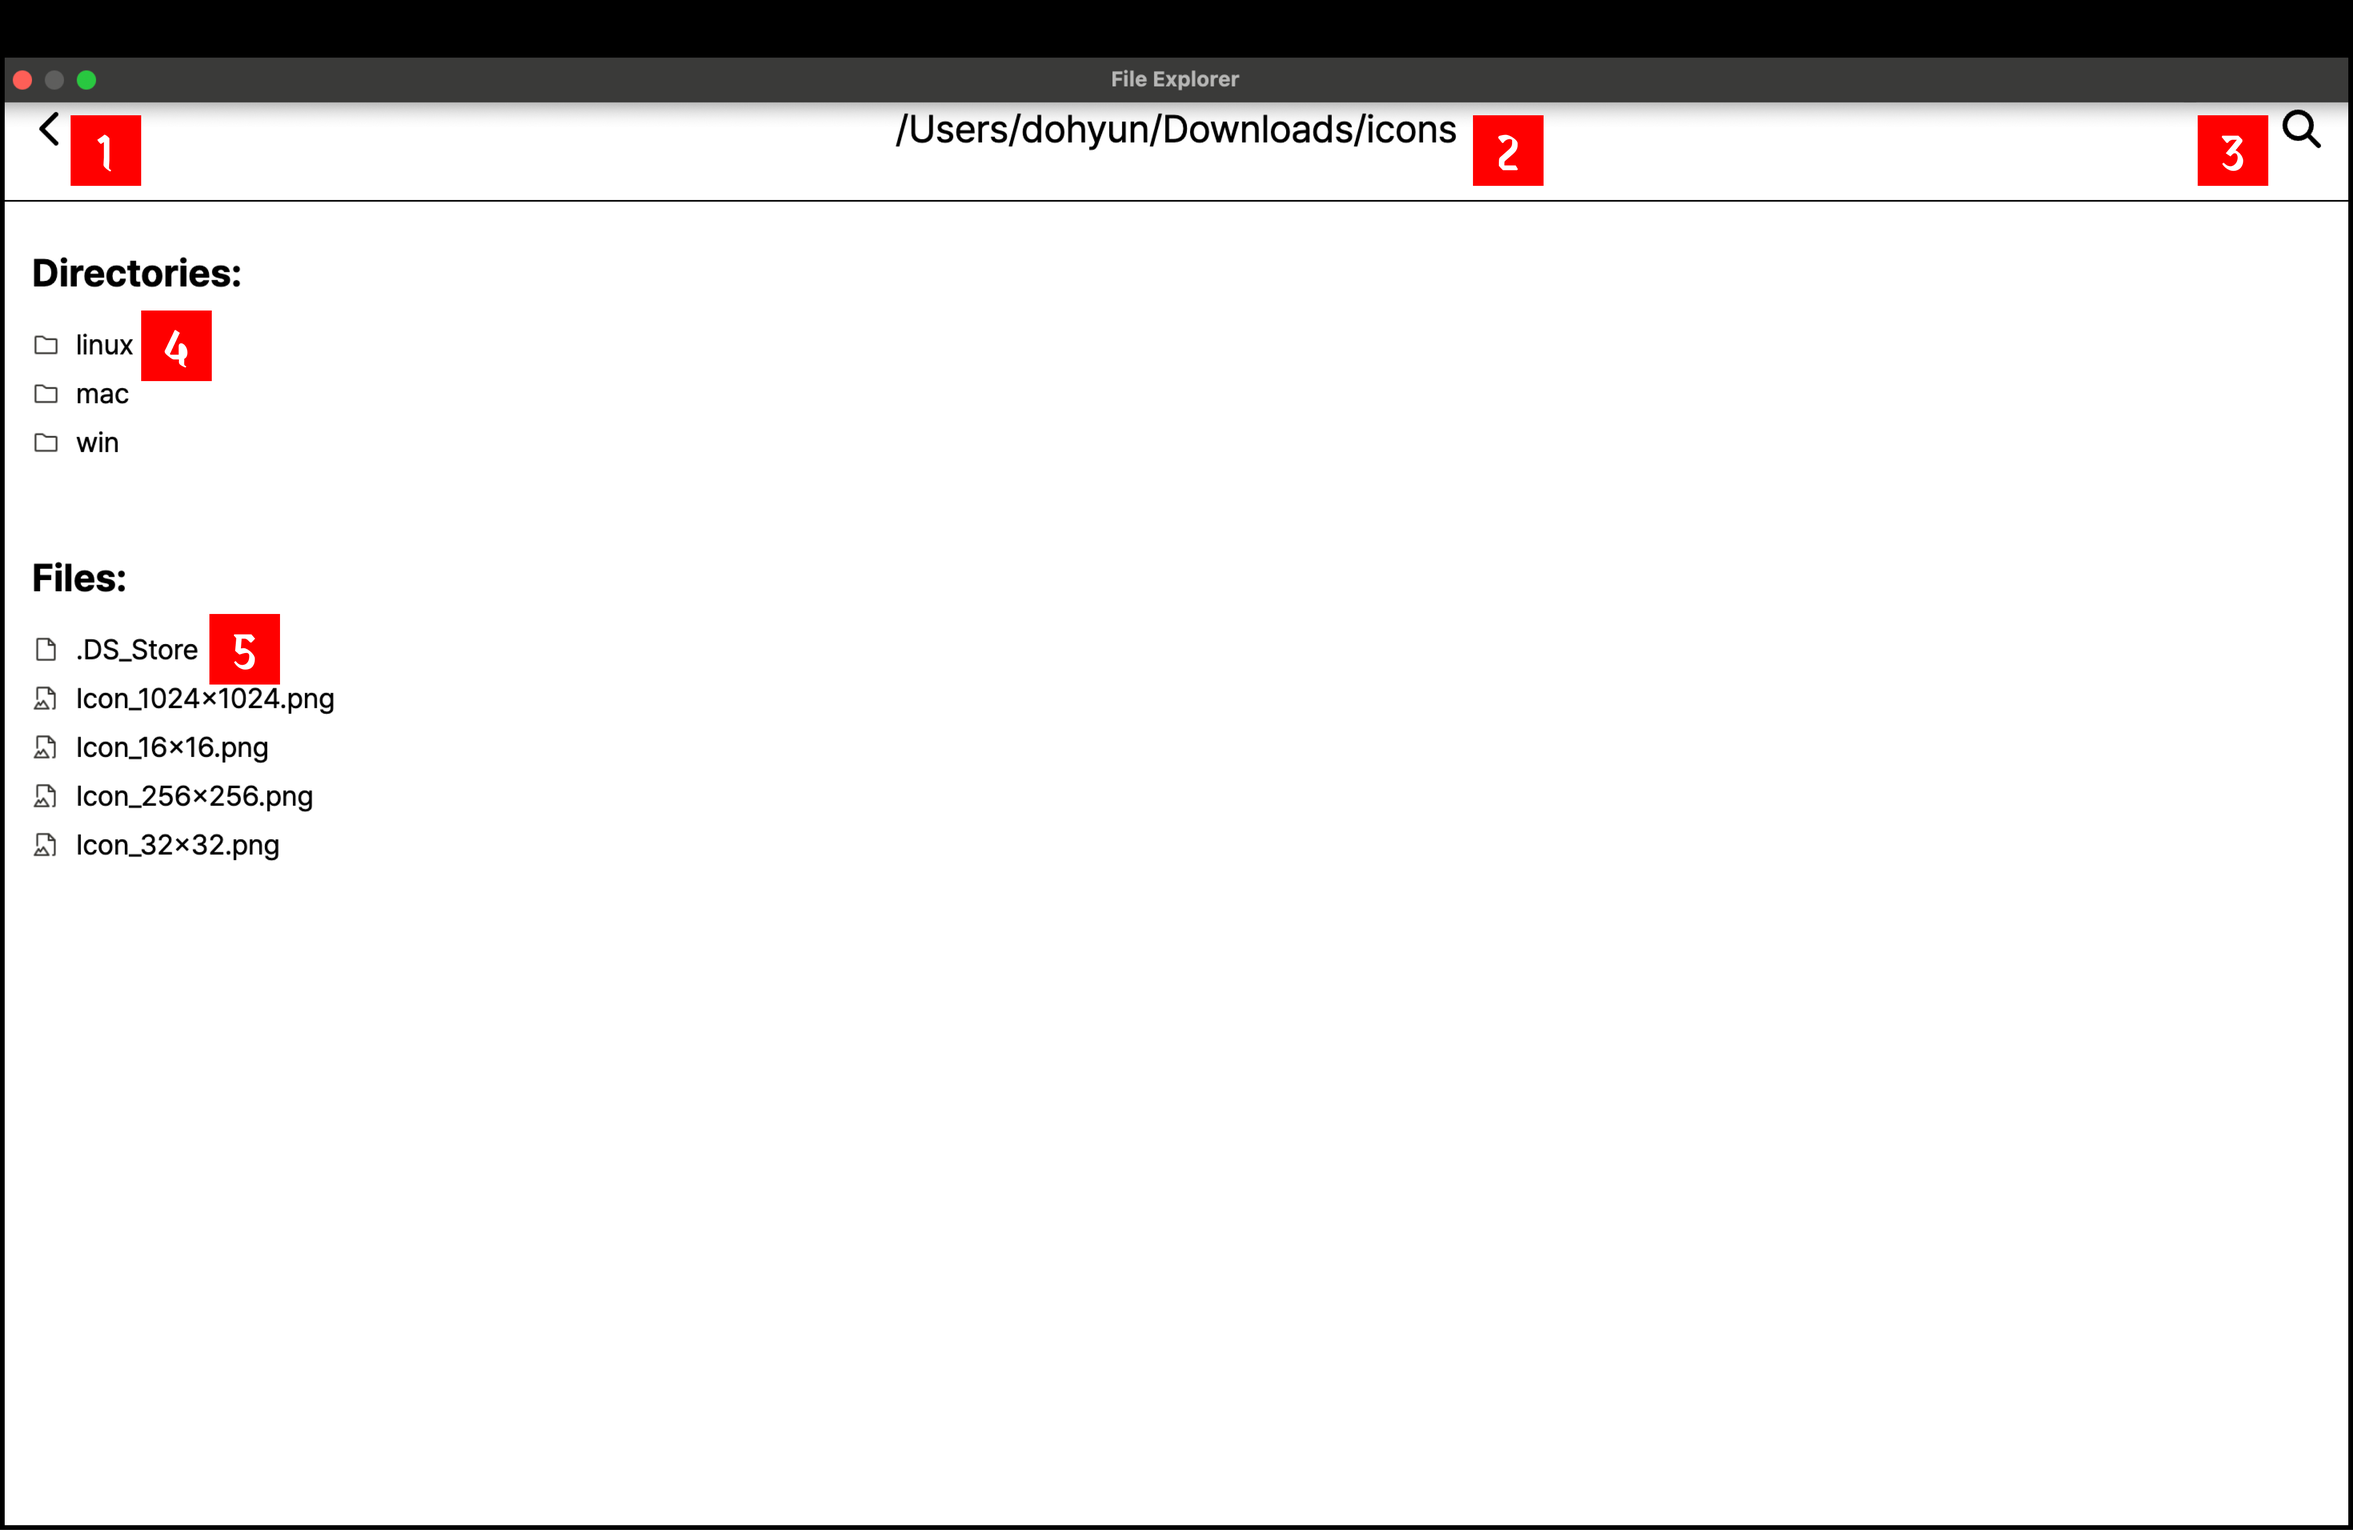
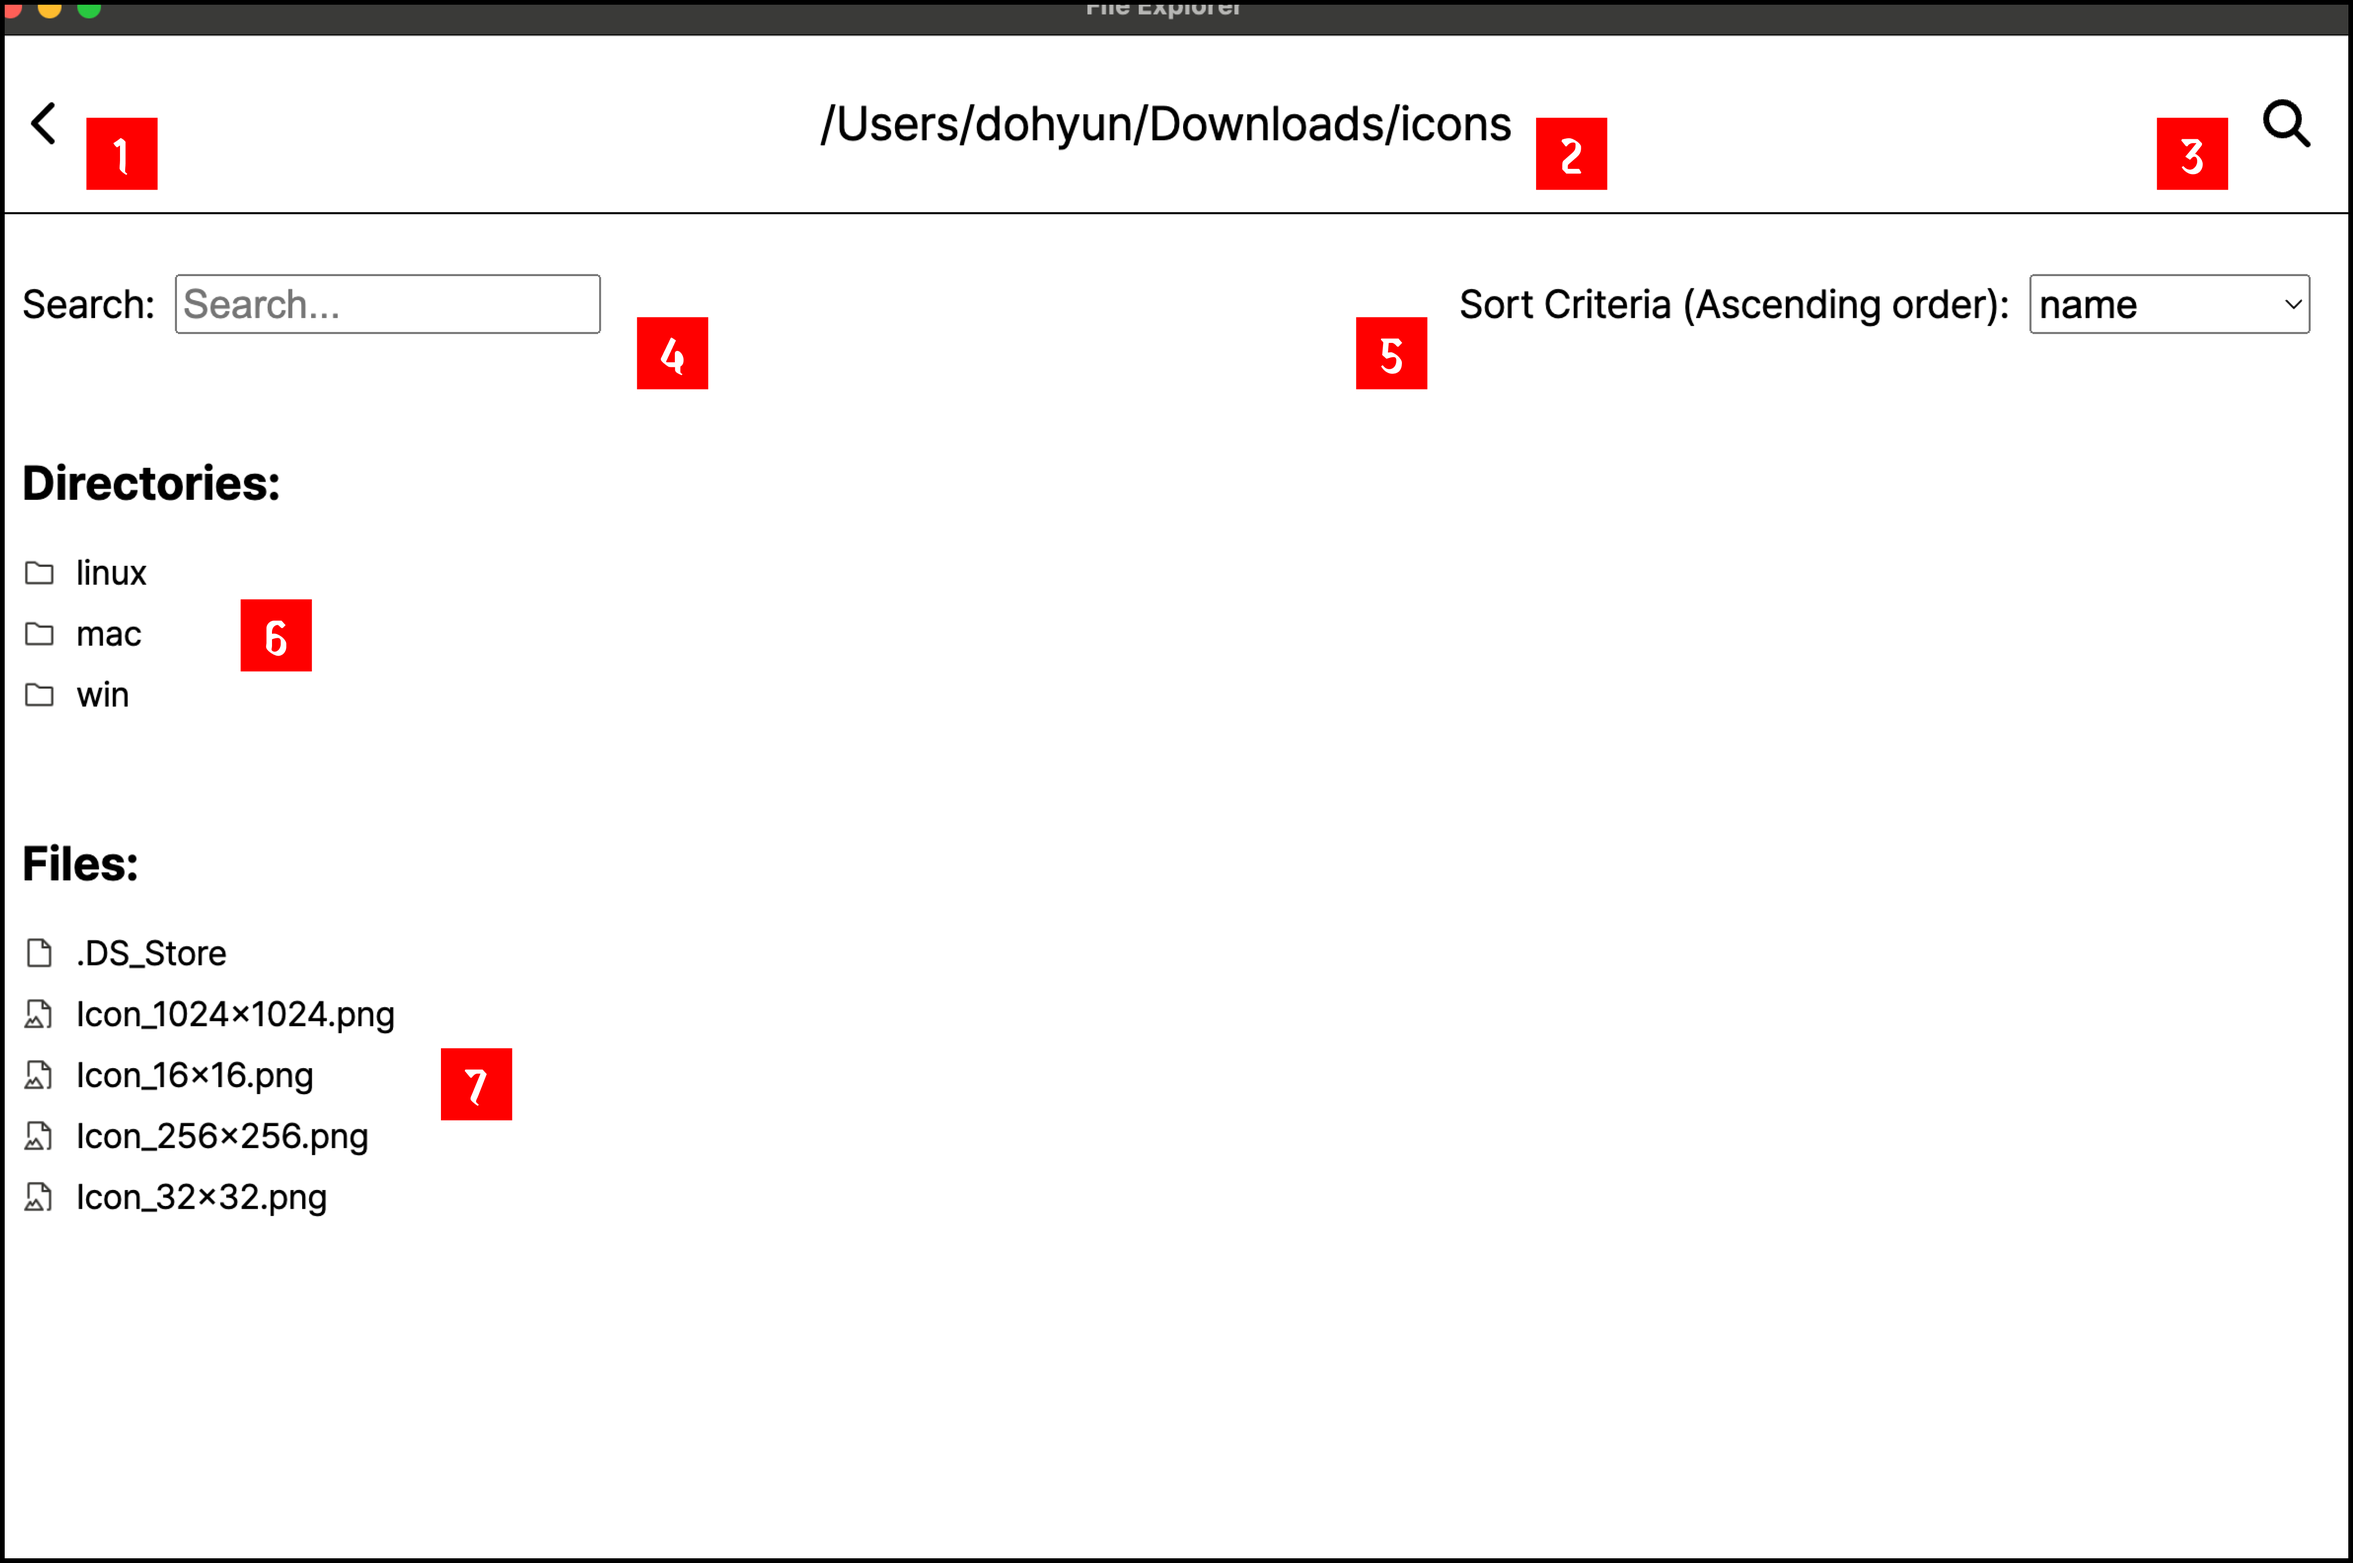
Docs: Edit README file

diff --git a/src/components/Main/Main.tsx b/src/components/Main/Main.tsx
@@ -71,7 +71,7 @@ export default function Main({
       ) : (
         <>
           {files.length || directories.length ? (
-            <div className={style.gap20}>
+            <div className={style.gap60}>
               <div>
                 <div className={style.title}>Directories:</div>
                 <div className={style.container}>

diff --git a/src/components/Main/Main.module.css b/src/components/Main/Main.module.css
@@ -2,7 +2,7 @@
   padding: 30px 20px;
 }
 
-.gap20 {
+.gap60 {
   display: flex;
   flex-direction: column;
   gap: 60px;

diff --git a/README.md b/README.md
@@ -47,7 +47,20 @@ to navigate through directories and explore files with minimal effort.
   as well as the files and subdirectories displayed below,  
   will be updated based on the new root directory.
 
-4. **Directories**
+4. **Search and Filter**
+
+- A search filter that filters only files and subdirectories that contain search terms.
+- It is in the form of input and can be typed.
+- If the input is empty, all files and subdirectories are displayed.
+
+5. **Sort Criteria Dropbox**
+
+- Sort files and subdirectories according to the given criteria.
+- It is a drop box with 5 sorting criteria.
+- There are five criteria available: 'name', 'size', 'date modified', 'date created', and 'extension'.
+- All criteria are sorted in ascending order.
+
+6. **Directories**
 
 - It shows the subdirectories in the current directory.
 - Double-clicking a subdirectory will navigate to that subdirectory,  
@@ -55,7 +68,7 @@ to navigate through directories and explore files with minimal effort.
 - If the selected subdirectory contains no files or subdirectories,  
   a warning message will appear, preventing access.
 
-5. **Files**
+7. **Files**
 
 - It shows the files in the current directory.
 - Different icons are applied depending on the file type.
@@ -110,7 +123,7 @@ npm install
 
 # Usage
 
-1. Testing the application locally
+1. Experiencing the application locally
 
 ```bash
 npm run dev
@@ -118,14 +131,20 @@ npm run build:dev
 npm run dev:electron
 ```
 
-2. Packaging the application on Windows
+2. Testing the application
+
+```bash
+npm run test
+```
+
+3. Packaging the application on Windows
 
 ```bash
 npm run build:prod
 npm run package-win
 ```
 
-3. Packaging the application on Mac
+4. Packaging the application on Mac
 
 ```bash
 npm run build:prod
